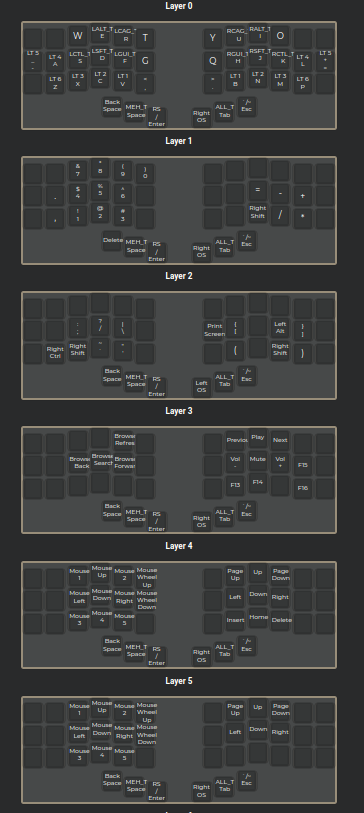
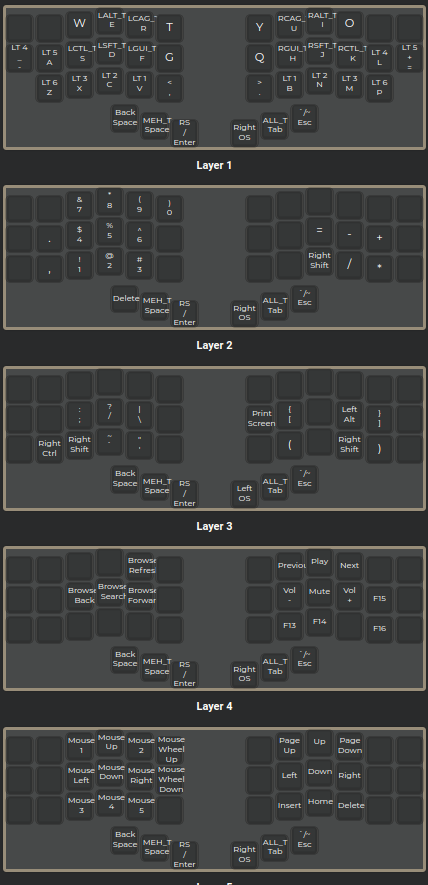
totum pinky lt 7 & 8 added, layers currently empty

Changed region(s): [[0.0, 0.0, 0.9973, 1.0], [0.6951, 0.246, 0.7253, 0.2768]]

diff --git a/notes.md b/notes.md
@@ -3,3 +3,4 @@
 now its kinda like a totem
 pinky only goes down or to the side, made layer 6 but is currently empty, symbols?
 layer 4 and 5 should be mirrored so i can mouse with hand choice
+added 7 & 8 on pinky may replace symbols layer
